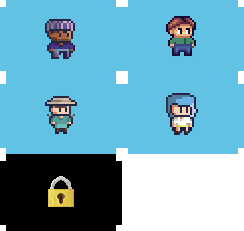
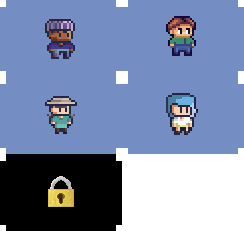
working on gallery

diff --git a/GalleryScene.cpp b/GalleryScene.cpp
@@ -1,0 +1,70 @@
+#include "GalleryScene.h"
+
+void GalleryScene::refreshSelection() {
+	for (sf::Text& text : *objectsHandler->getTextHolder())
+		text.setFillColor(sf::Color::White);
+	objectsHandler->getTextPointer(selectedRow)->setFillColor(GREEN);
+}
+	
+bool GalleryScene::eventLogic(std::optional<sf::Event> gameEvent) {
+	if (gameEvent->is<sf::Event::Closed>())
+		return true;
+    else if (gameEvent->is<sf::Event::KeyPressed>()) {
+        if (gameEvent->getIf<sf::Event::KeyPressed>()->code == sf::Keyboard::Key::Down) {
+			selectedRow++;
+            soundManager->playSound("menuChange", true);
+            if (selectedRow == 7)
+				selectedRow = 0;
+        }
+        else if (gameEvent->getIf<sf::Event::KeyPressed>()->code == sf::Keyboard::Key::Up) {
+			selectedRow--;
+            soundManager->playSound("menuChange", true);
+            if (selectedRow == -1)
+				selectedRow = 6;
+        }
+        else if (gameEvent->getIf<sf::Event::KeyPressed>()->code == sf::Keyboard::Key::Enter) {
+            soundManager->playSound("menuSelect", true);
+			if (selectedRow == 6) {
+				*sceneLabel = MAINMENU;
+				return true;
+			}
+        }
+        refreshSelection();
+    }
+    return false;
+}
+	
+bool GalleryScene::init() {
+	selectedRow = 0;
+	sf::Texture* backgroundTexture = objectsHandler->loadTexture({ 432, 270 }, "SettingsBG");
+	if (!backgroundTexture)
+		return true;
+	spriteHolderIndex = objectsHandler->addVectorToSpriteHolder();
+	objectsHandler->loadSpriteIntoHolder(*backgroundTexture, { 432,270 }, { 0, 0 }, spriteHolderIndex);
+	sf::Texture* buttonTexture = objectsHandler->loadTexture({ 434, 102 }, "ButtonSprites");
+	if (!buttonTexture)
+		return true;
+	for (int i = 0; i < 7; i++) {
+		objectsHandler->loadSpriteIntoHolder(*buttonTexture, { 90,38 }, { 270, 38 }, spriteHolderIndex);
+		objectsHandler->getSpritePointer(spriteHolderIndex, -1)->setPosition({ 0, 38.f * i +1});
+	}
+	sf::Texture* menuTexture = objectsHandler->loadTexture({ 332, 220 }, "PauseBackground");
+	if (!menuTexture)
+		return true;
+	objectsHandler->loadSpriteIntoHolder(*menuTexture, { 332,220 }, { 0, 0 }, spriteHolderIndex);
+	objectsHandler->getSpritePointer(spriteHolderIndex, -1)->setPosition({ 95, 25 });
+	objectsHandler->loadTextIntoHolder("Characters", 21, { 45 - (objectsHandler->calculateTextWidth("Characters", 21)) / 2, 6 });
+	objectsHandler->loadTextIntoHolder("Enemies", 21, { 45 - (objectsHandler->calculateTextWidth("Enemies", 21)) / 2, 44 });
+	objectsHandler->loadTextIntoHolder("Items", 21, { 45 - (objectsHandler->calculateTextWidth("Items", 21)) / 2, 82 });
+	objectsHandler->loadTextIntoHolder("Projectiles", 21, { 45 - (objectsHandler->calculateTextWidth("Projectiles", 21)) / 2, 120 });
+	objectsHandler->loadTextIntoHolder("Map tiles", 21, { 45 - (objectsHandler->calculateTextWidth("Map tiles", 21)) / 2, 158 });
+	objectsHandler->loadTextIntoHolder("PowerUps", 21, { 45 - (objectsHandler->calculateTextWidth("PowerUps", 21)) / 2, 196 });
+	objectsHandler->loadTextIntoHolder("Exit", 21, { 45 - (objectsHandler->calculateTextWidth("Exit", 21)) / 2, 234 });
+	refreshSelection();
+	return false;
+}
+	
+void GalleryScene::cleanUp() {
+	objectsHandler->clearSpriteHolder();
+	objectsHandler->clearTextHolder();
+}

diff --git a/Engine.cpp b/Engine.cpp
@@ -126,6 +126,9 @@ void Engine::changeScene() {
             (static_cast<SettingsScene*>(scene))->setDisplay(&display);
             (static_cast<SettingsScene*>(scene))->setMusicPointer(&playedMusic);
             break;
+        case GALLERY:
+            scene = new GalleryScene(&objectsHandler, &sceneLabel, &soundManager, &soundVolume);
+            break;
         case RESETCHOICE:
             scene = new ResetChoice(&objectsHandler, &sceneLabel, &soundManager, &soundVolume);
             (static_cast<ResetChoice*>(scene))->setDisplay(&display);

diff --git a/MainMenu.cpp b/MainMenu.cpp
@@ -29,8 +29,7 @@ bool MainMenu::eventLogic(std::optional<sf::Event> gameEvent) {
                     *sceneLabel = SETTINGS;
                     break; 
                 case 3:
-                    //*sceneLabel = GALLERY;
-                    return false;
+                    *sceneLabel = GALLERY;
                     break;
                 case 4:
                     break;

diff --git a/GalleryScene.h b/GalleryScene.h
@@ -1,0 +1,13 @@
+#pragma once
+#include "Scene.h"
+
+class GalleryScene: public Scene {
+	int spriteHolderIndex;
+	int selectedRow;
+	void refreshSelection();
+public:
+	using Scene::Scene;
+	bool eventLogic(std::optional<sf::Event> gameEvent);
+	bool init();
+	void cleanUp();
+};

diff --git a/Engine.h b/Engine.h
@@ -6,6 +6,7 @@
 #include "PlayChoice.h"
 #include "PlaySpace.h"
 #include "FinishScreen.h"
+#include "GalleryScene.h"
 
 class Engine {
 	SceneLabels sceneLabel = MAINMENU;
